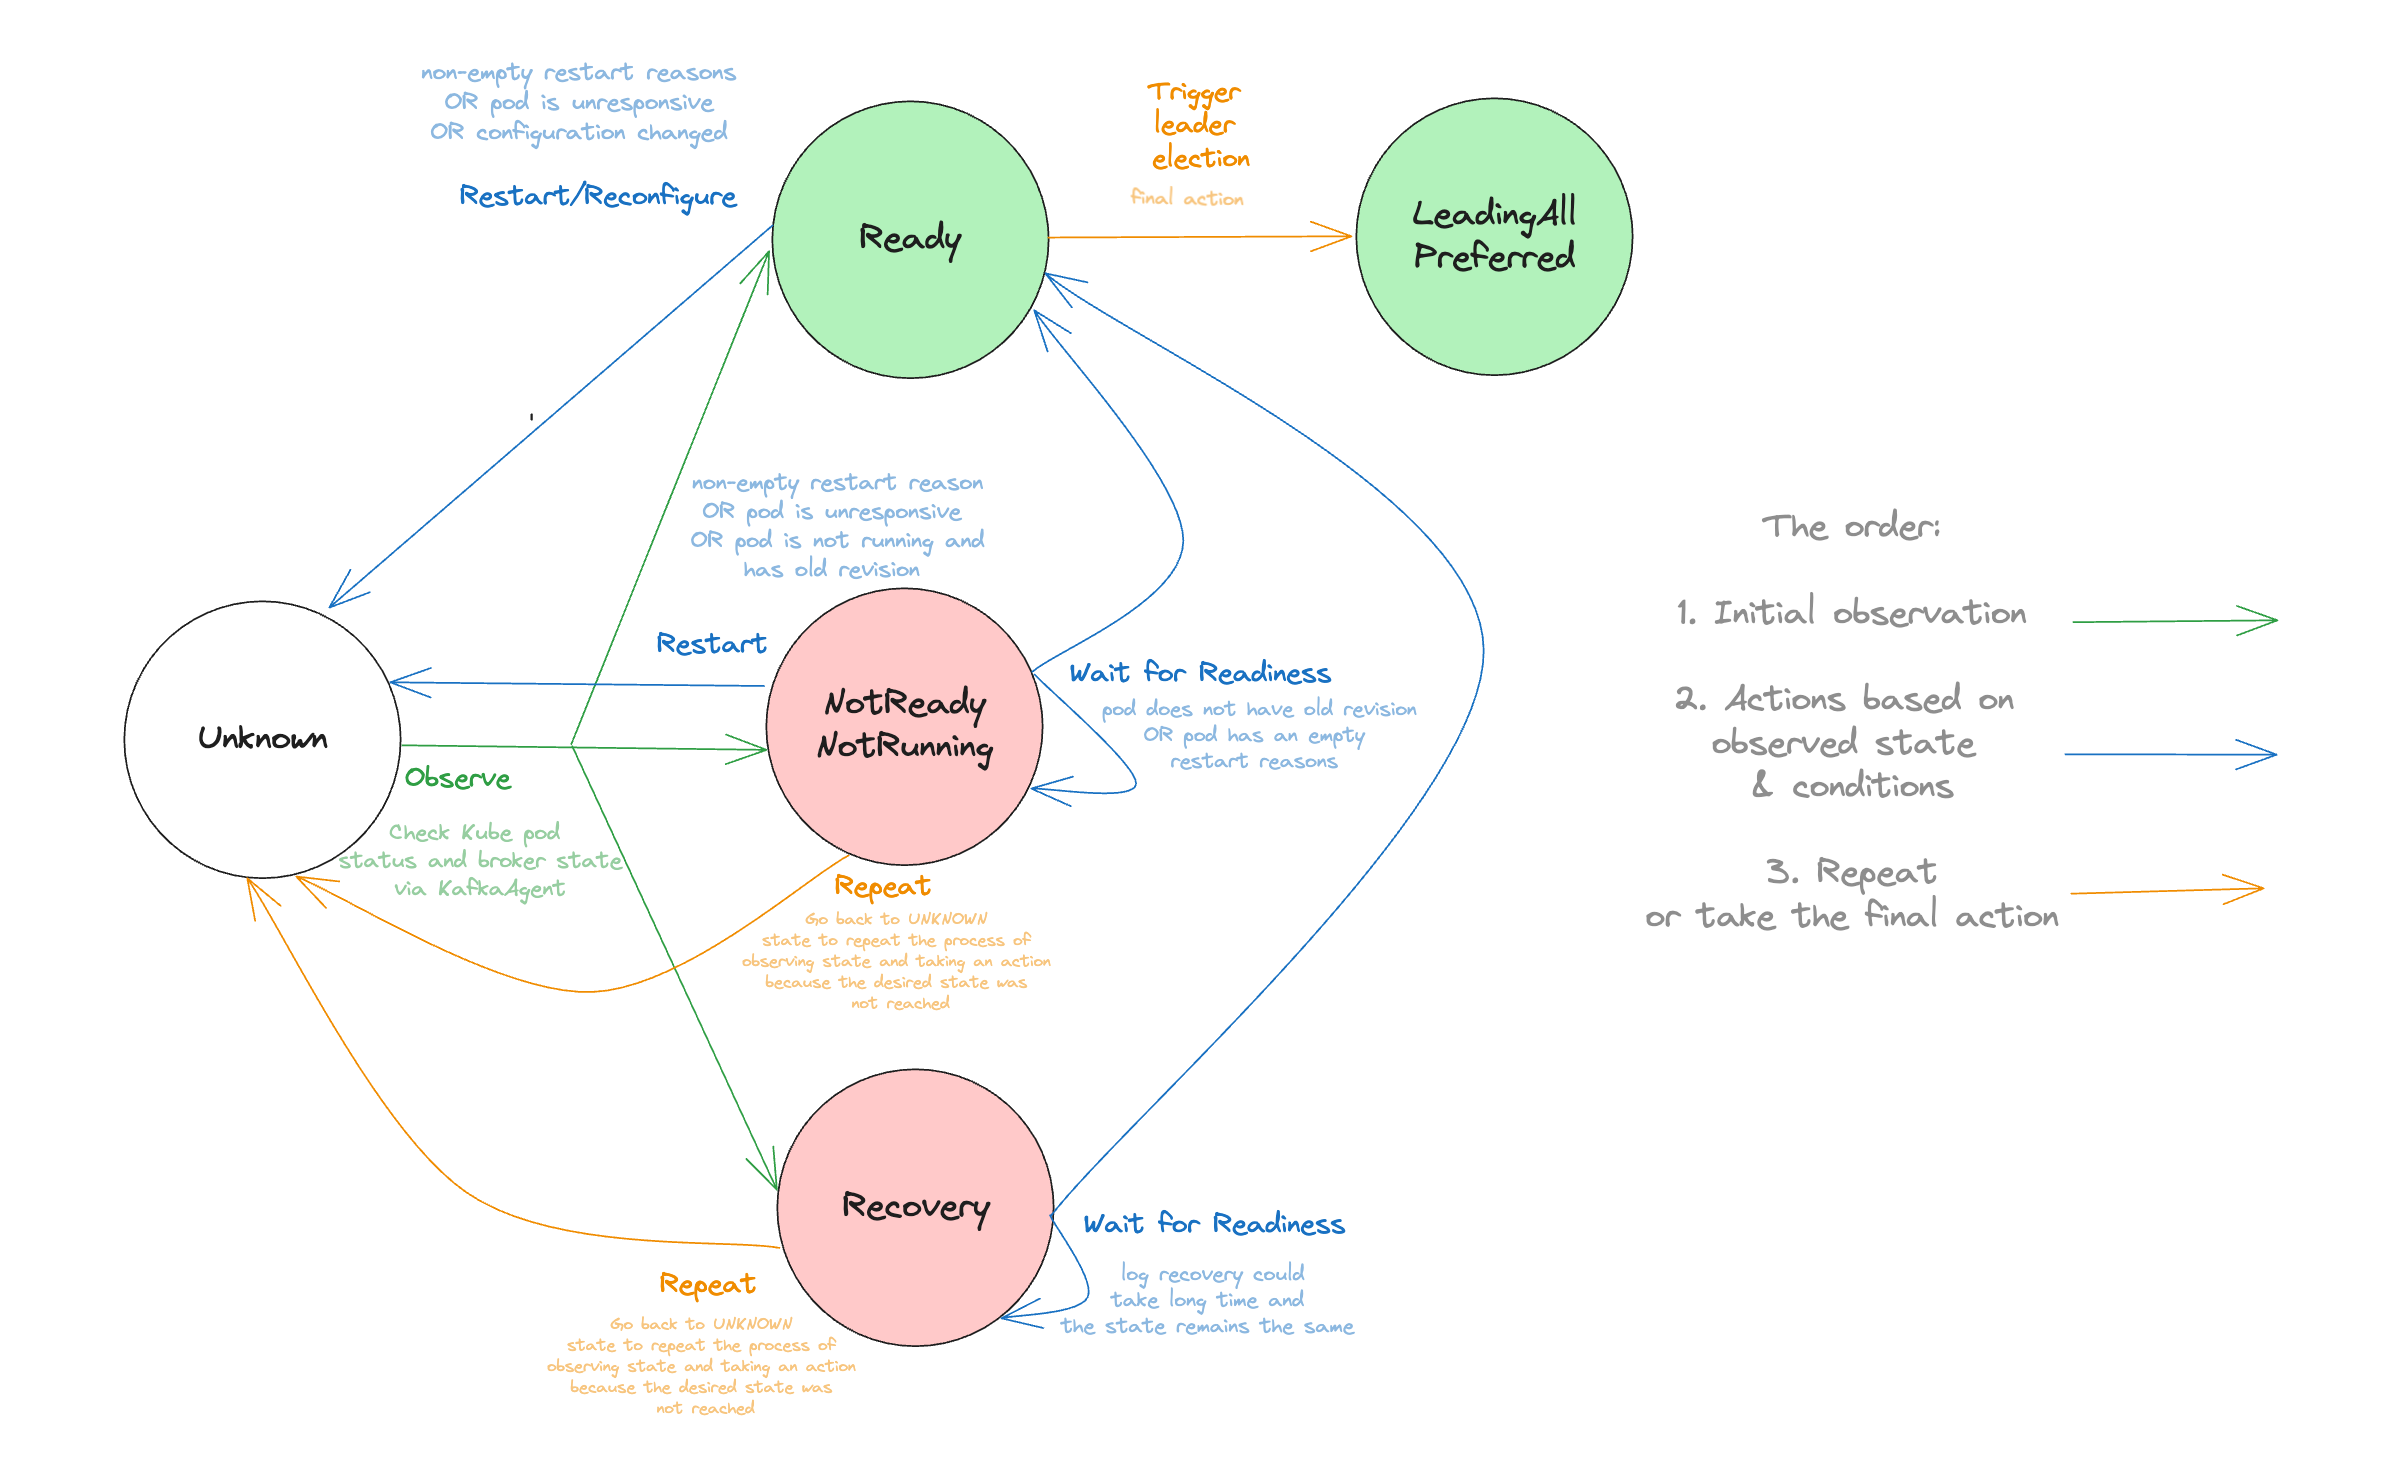
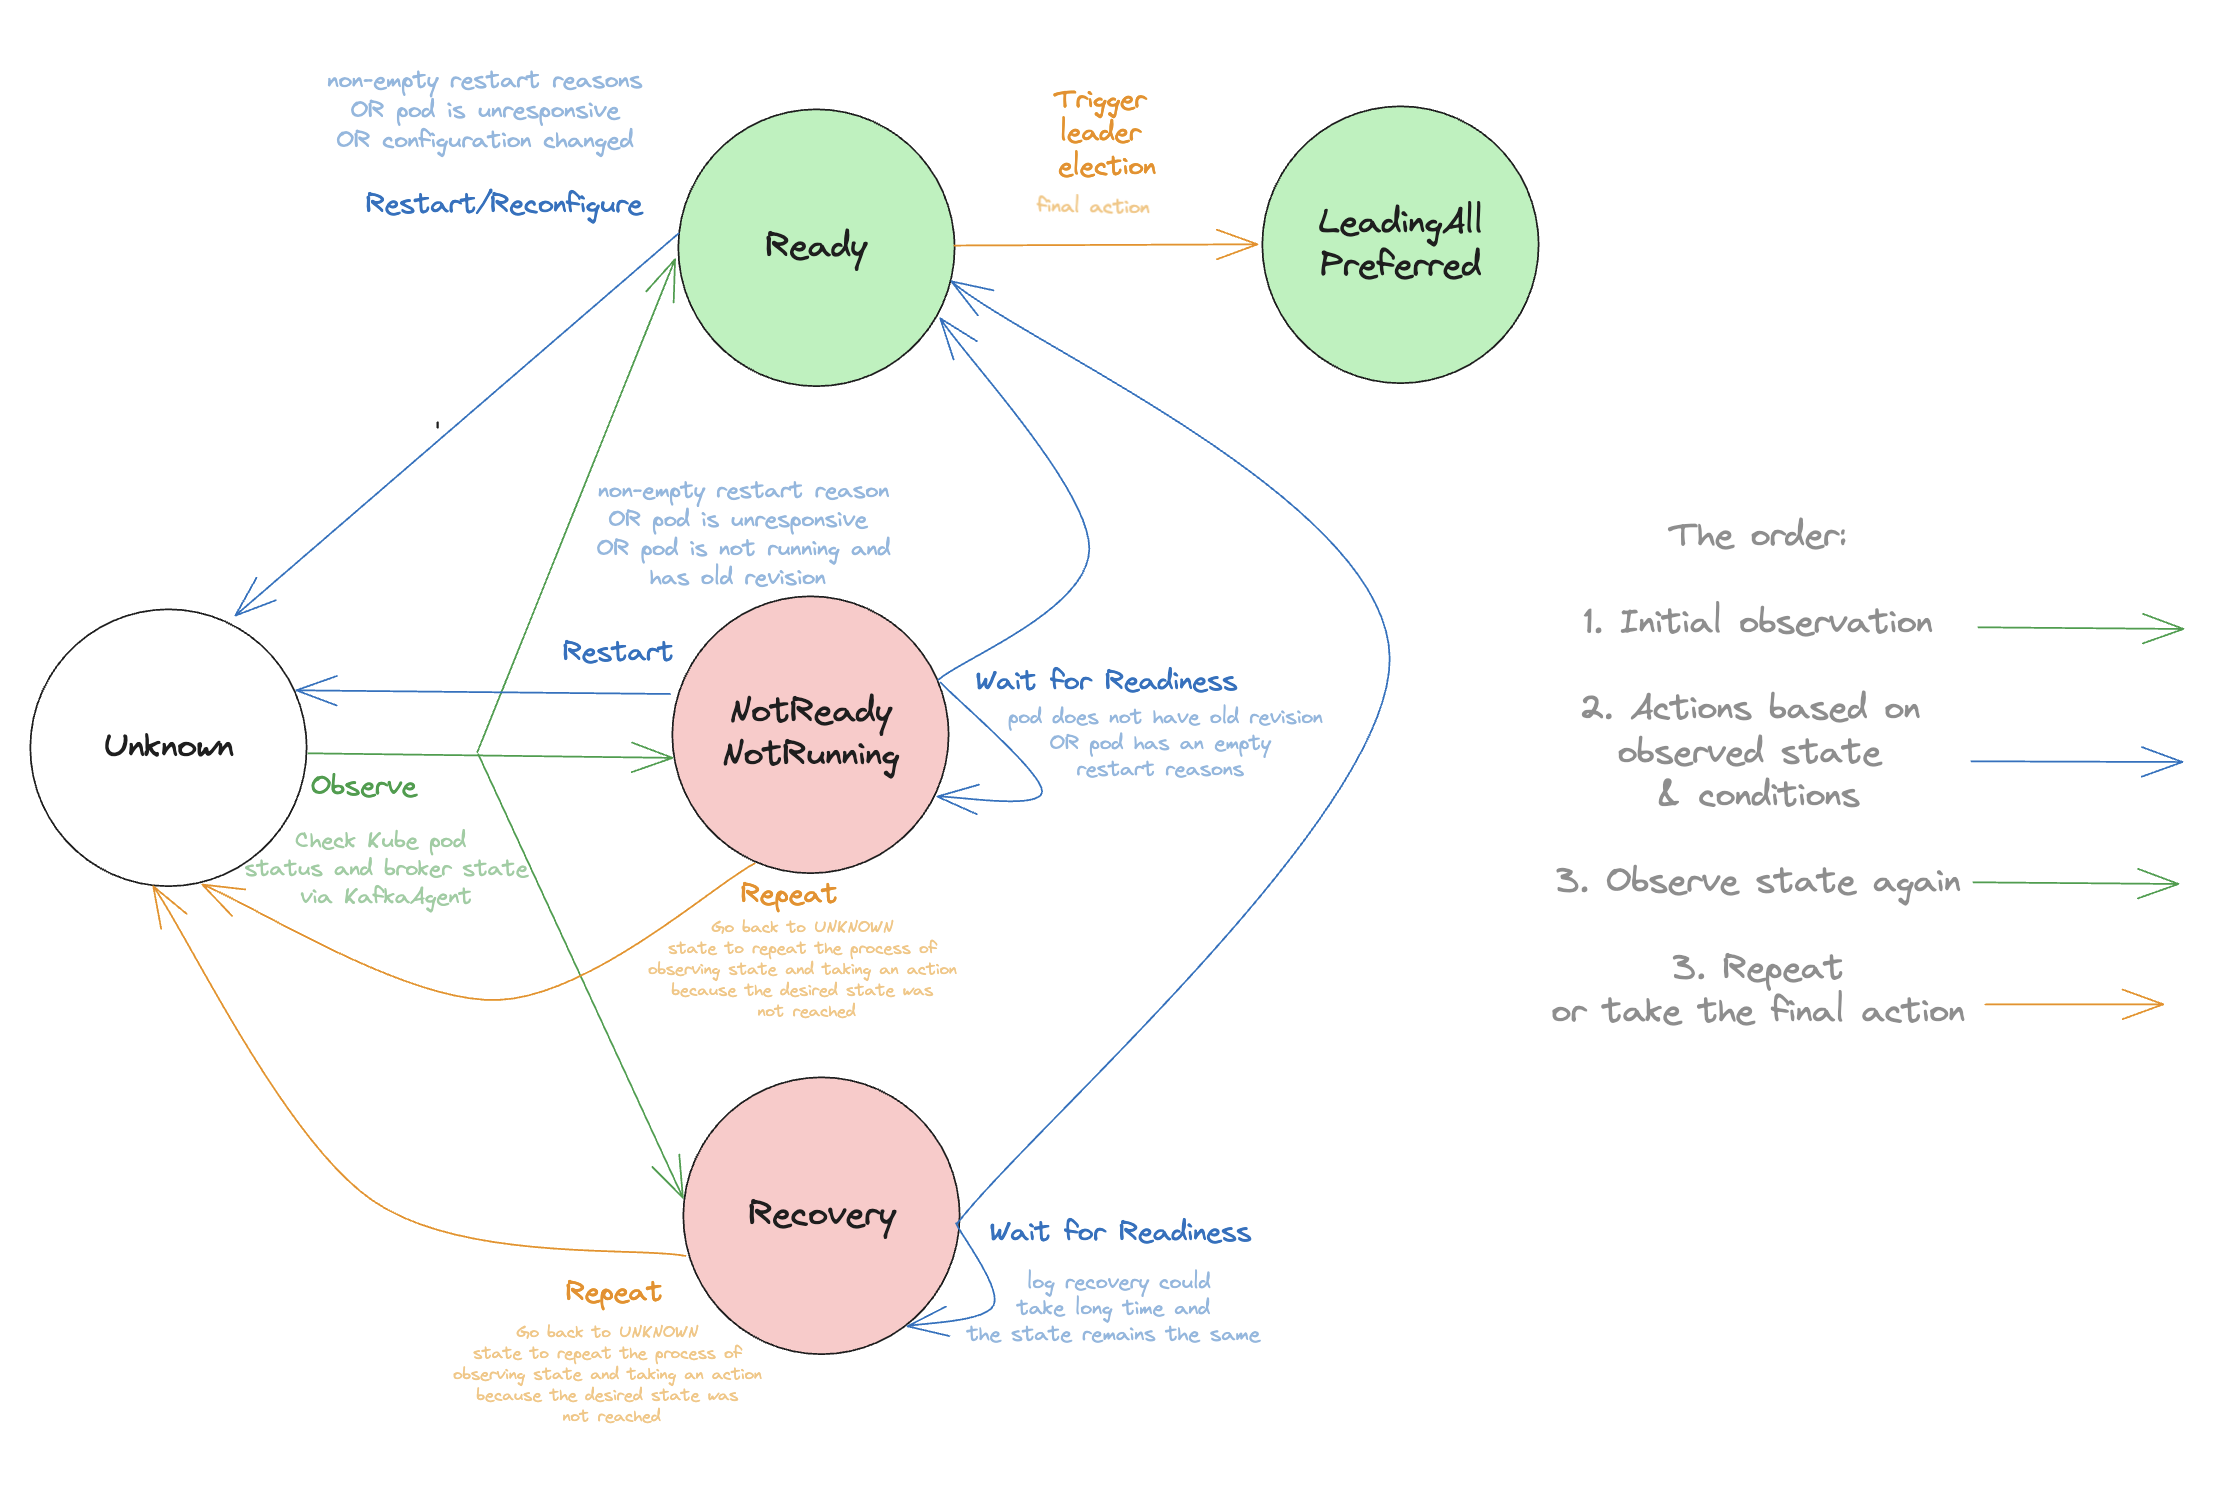
Tidy up

diff --git a/06x-new-kafka-roller.md b/06x-new-kafka-roller.md
@@ -68,10 +68,10 @@ When a new reconciliation starts up, a context object is created for each node t
  | :--------------- | :--------------- | :----------- |
  | UNKNOWN               | The initial state when creating `Context` for a node or state just after the node gets restarted/reconfigured. We expect to transition from this state fairly quickly.  | `NOT_RUNNING` `NOT_READY` `RECOVERING` `READY` |
  | NOT_RUNNING           | Node is not running (Kafka process is not running). This is determined via Kubernetes API, more details for it below. | `READY` `UNKNOWN` `NOT_READY` `RECOVERING` | 
- | NOT_READY             | Node is running but not ready to serve requests which is determined by Kubernetes readiness probe (broker state is not RUNNING OR controller is not listening on port). | `READY` `UNKNOWN` `NOT_RUNNING` `RECOVERING` |
- | RECOVERING            | Node has started but is in log recovery (broker state == 2). This is determined via the KafkaAgent. | `READY` `NOT_RUNNING` `NOT_READY` |
- | READY               | Node is in running state and ready to serve requests which is determined by Kubernetes readiness probe (broker state is RUNNING OR controller is listening on port). | `LEADING_ALL_PREFERRED` `UNKNOWN` |
- | LEADING_ALL_PREFERRED | Node is leading all the partitions that it is the preferred leader for. Node's state can transition into this only from `READY` state.  | This is the final state we expect
+ | NOT_READY             | Node is running but not ready to serve requests which is determined by Kubernetes readiness probe (broker state is not `RUNNING` or controller is not listening on port). | `READY` `UNKNOWN` `NOT_RUNNING` `RECOVERING` |
+ | RECOVERING            | Node has started but is in log recovery (broker state is `RECOVERY`). This is determined via the KafkaAgent. | `READY` `NOT_RUNNING` `NOT_READY` |
+ | READY               | Node is in running state and ready to serve requests which is determined by Kubernetes readiness probe (broker state is `RUNNING` or controller is listening on port). | `LEADING_ALL_PREFERRED` `UNKNOWN` |
+ | LEADING_ALL_PREFERRED | Node is leading all the partitions that it is the preferred leader for. This is determined via Admin API. Node's state can transition into this only from `READY` state.  | This is the final state we expect for broker nodes.
 
 Context about broker states and restart reasons:
 - To determine if the node is ready or performing a log recovery, we use the [Broker States](https://github.com/apache/kafka/blob/3.7/metadata/src/main/java/org/apache/kafka/metadata/BrokerState.java) metric emitted by Kafka. KafkaAgent collects and exposes this metric via REST Endpoint. This is what the current KafkaRoller does already, and the new roller will use it the same way.
@@ -85,7 +85,8 @@ If one of the following is true, then node's state is `NOT_RUNNING`:
 - unable to get the `Pod Status` for the pod 
 - the pod has `Pending` status with `Unschedulable` reason
 - the pod has container status `ContainerStateWaiting` with `CrashLoopBackOff` or `ImagePullBackOff` reason
-If none of the above is true but the node is not ready, then its state would be `NOT_READY`.
+
+If none of the above is true but the node state is `NOT_READY`.
 
 #### High level flow diagram describing the flow of the states
 ![The new roller flow](./images/06x-new-roller-flow.png)
@@ -137,10 +138,10 @@ The following are the configuration options for the new KafkaRoller. If exposed 
    - `WAIT_FOR_LOG_RECOVERY`: Nodes in `RECOVERING` state.
    - `RESTART_UNRESPONSIVE`: Nodes unresponsive via Admin API.
    - `MAYBE_RECONFIGURE_OR_RESTART`: Broker nodes with empty reason lists and no previous restarts/reconfigurations.
-   - `RESTART`: Nodes with reasons for restart and no previous restarts.
-   - `NOP`: Nodes needing no operation.
+   - `RESTART`: Nodes with reasons for restart, and either no previous restarts or not in `READY` or `LEADING_ALL_PREFERRED` state. 
+   - `NOP`: Nodes with no reasons for restart, or has been restarted and in `READY` or `LEADING_ALL_PREFERRED` state.
 
-   Grouping the nodes into these categories makes it clearer to take actions on the them in the specific order. Also the category and node state is not always 1:1, for example, nodes might be unresponsive depsite having READY or NOT_READY state but need to be grouped together for sequential restarts. Grouping also makes it to easier to batch broker nodes for parallel restart.
+   Grouping the nodes into these categories makes it clearer to take actions on the them in the specific order. Also the category and node state is not always 1:1, for example, nodes might be unresponsive despite having `READY` or `NOT_READY` state but need to be grouped together for sequential restarts. Grouping also makes it to easier to batch broker nodes for parallel restart.
 
 5. **Wait for Log Recovery:**
    Wait for `WAIT_FOR_LOG_RECOVERY` nodes to become `READY` within `operationTimeoutMs`. If timeout is reached and `numRetries` exceeds `maxRetries`, throw `UnrestartableNodesException`. Otherwise, increment `numRetries` and repeat from step 2.
@@ -199,6 +200,8 @@ The following are the configuration options for the new KafkaRoller. If exposed 
 The quorum health logic is similar to the current KafkaRoller except for a couple of differences. The current KafkaRoller uses the `controller.quorum.fetch.timeout.ms` config value from the desired configurations passed from the reconciler or uses the hard-coded default value if the reconciler pass null for desired configurations. The new roller will use the configuration value of the active controller. This will mean that the quorum health check is done from the active controller's point of view.
 
 Also the current KafkaRoller does not connect to the controller via Admin API to get the quorum health information. By the time, we implement this proposal, Strimzi should support Kafka 3.7 which includes [KIP 919](https://cwiki.apache.org/confluence/display/KAFKA/KIP-919%3A+Allow+AdminClient+to+Talk+Directly+with+the+KRaft+Controller+Quorum+and+add+Controller+Registration). Therefore new KafkaRoller will be able to connect to the controller directly for quorum information and active controller's configuration.
+
+### Safety conditions
 
 #### Availability check
 
@@ -293,8 +296,8 @@ topic("topic-E"), Replicas(6, 10, 11), ISR(6, 10, 11), MinISR(2)
 ```
 15. The `maxRetries` of 10 is reached for `broker-6`, therefore the roller throws `UnrestartableNodesException` and the reconciliation fails. The operator logs the number of remaining segments and logs to recover.
 16. When the next reconciliation starts, all the nodes are observed and their contexts are updated. `broker-6` node has finished performing log recovery therefore have `READY` state. All nodes have `READY` state and no reason to restart except `broker-9` and `broker-10`.
-17. Broker nodes that have no reason to restart are checked if their configurations have been updated. The `min.insync.replicas` has been updated to 1 therefore the roller sends a request containing the configuration update to the brokers and then transitions nodes' state to `RECONFIGURED`. 
-18. Observe the broker nodes that have configuration updated, and wait until they have `LEADING_ALL_PREFERRED` state.
+17. Broker nodes that have no reason to restart are checked if their configurations have been updated. The `min.insync.replicas` has been updated to 1 therefore the roller sends a request containing the configuration update to the brokers and then transitions nodes' state to `UNKNOWN`. 
+18. Observe the broker nodes that have configuration updated, and ensure that they still have `READY` state.
 19. The roller considers restarting `broker-10` and `broker-9` as they still have `MANUAL_ROLLING_UPDATE` reason. 
 20. It sends requests to describe all the topic partitions and their `min.insync.replicas` configuration and finds that all topic partitions are fully replicated. 
 21. The roller create 2 batches with a single node in each because `broker-10` and `broker-9` share topic partition, "topic-A": 
